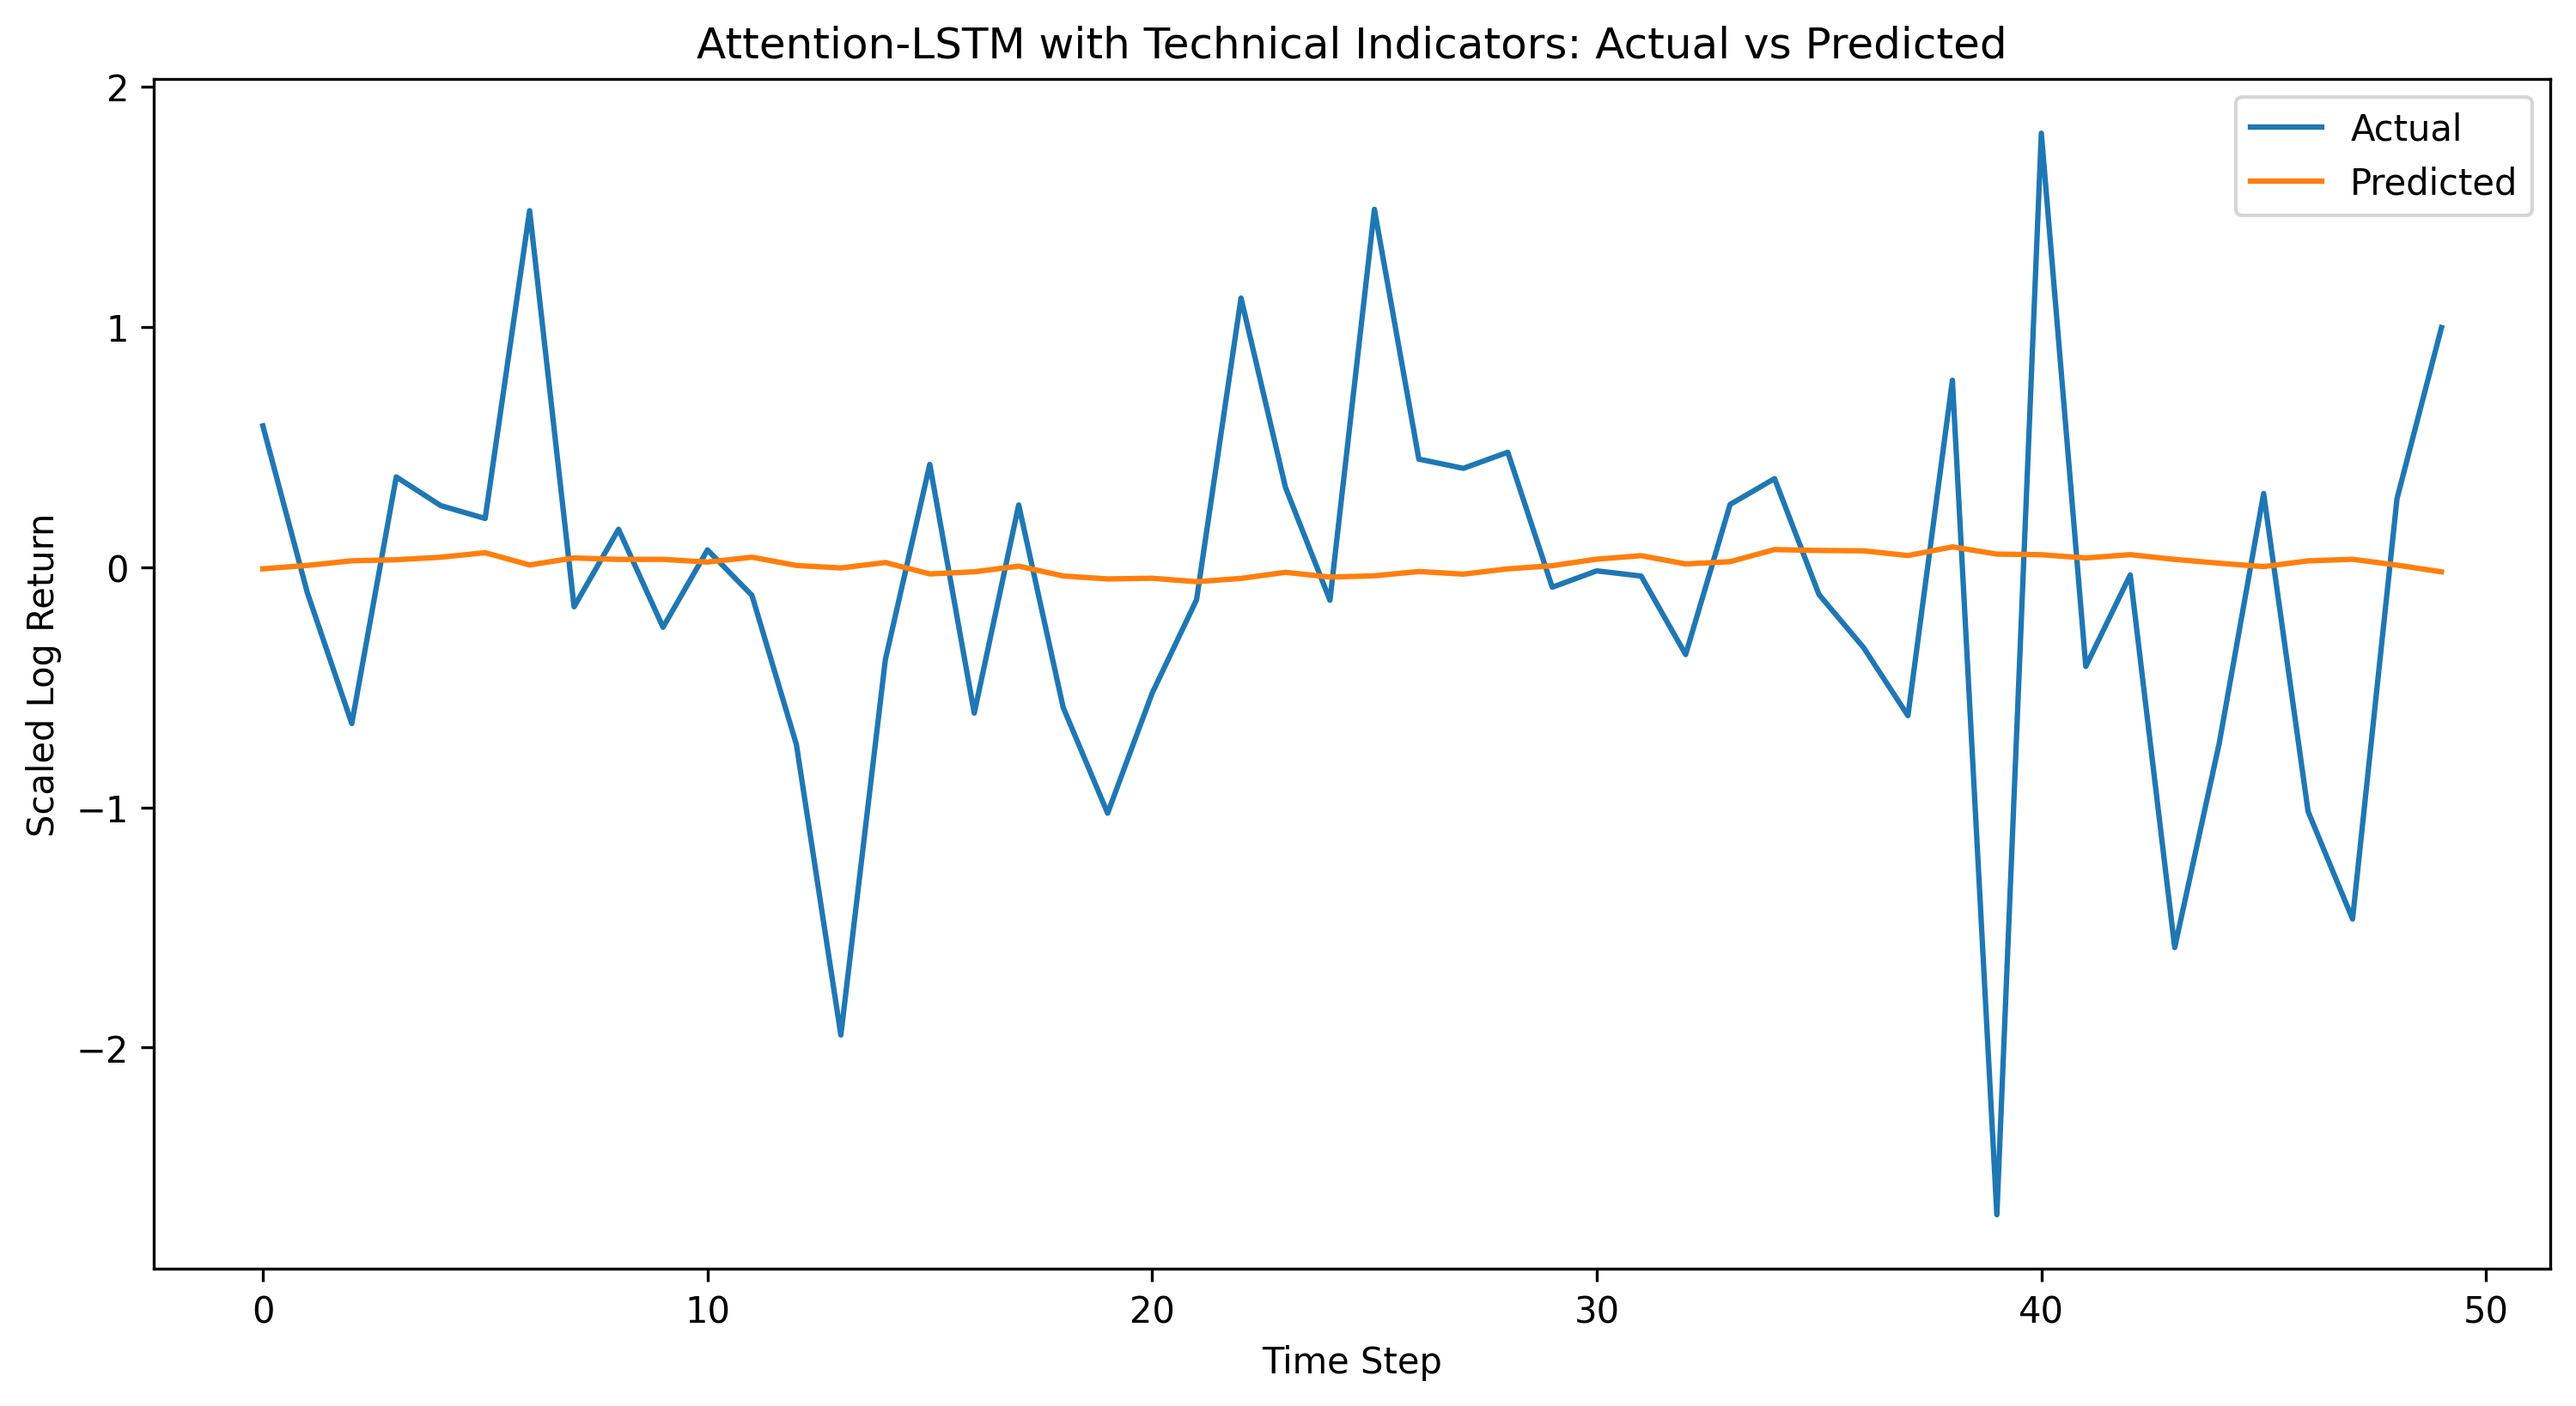
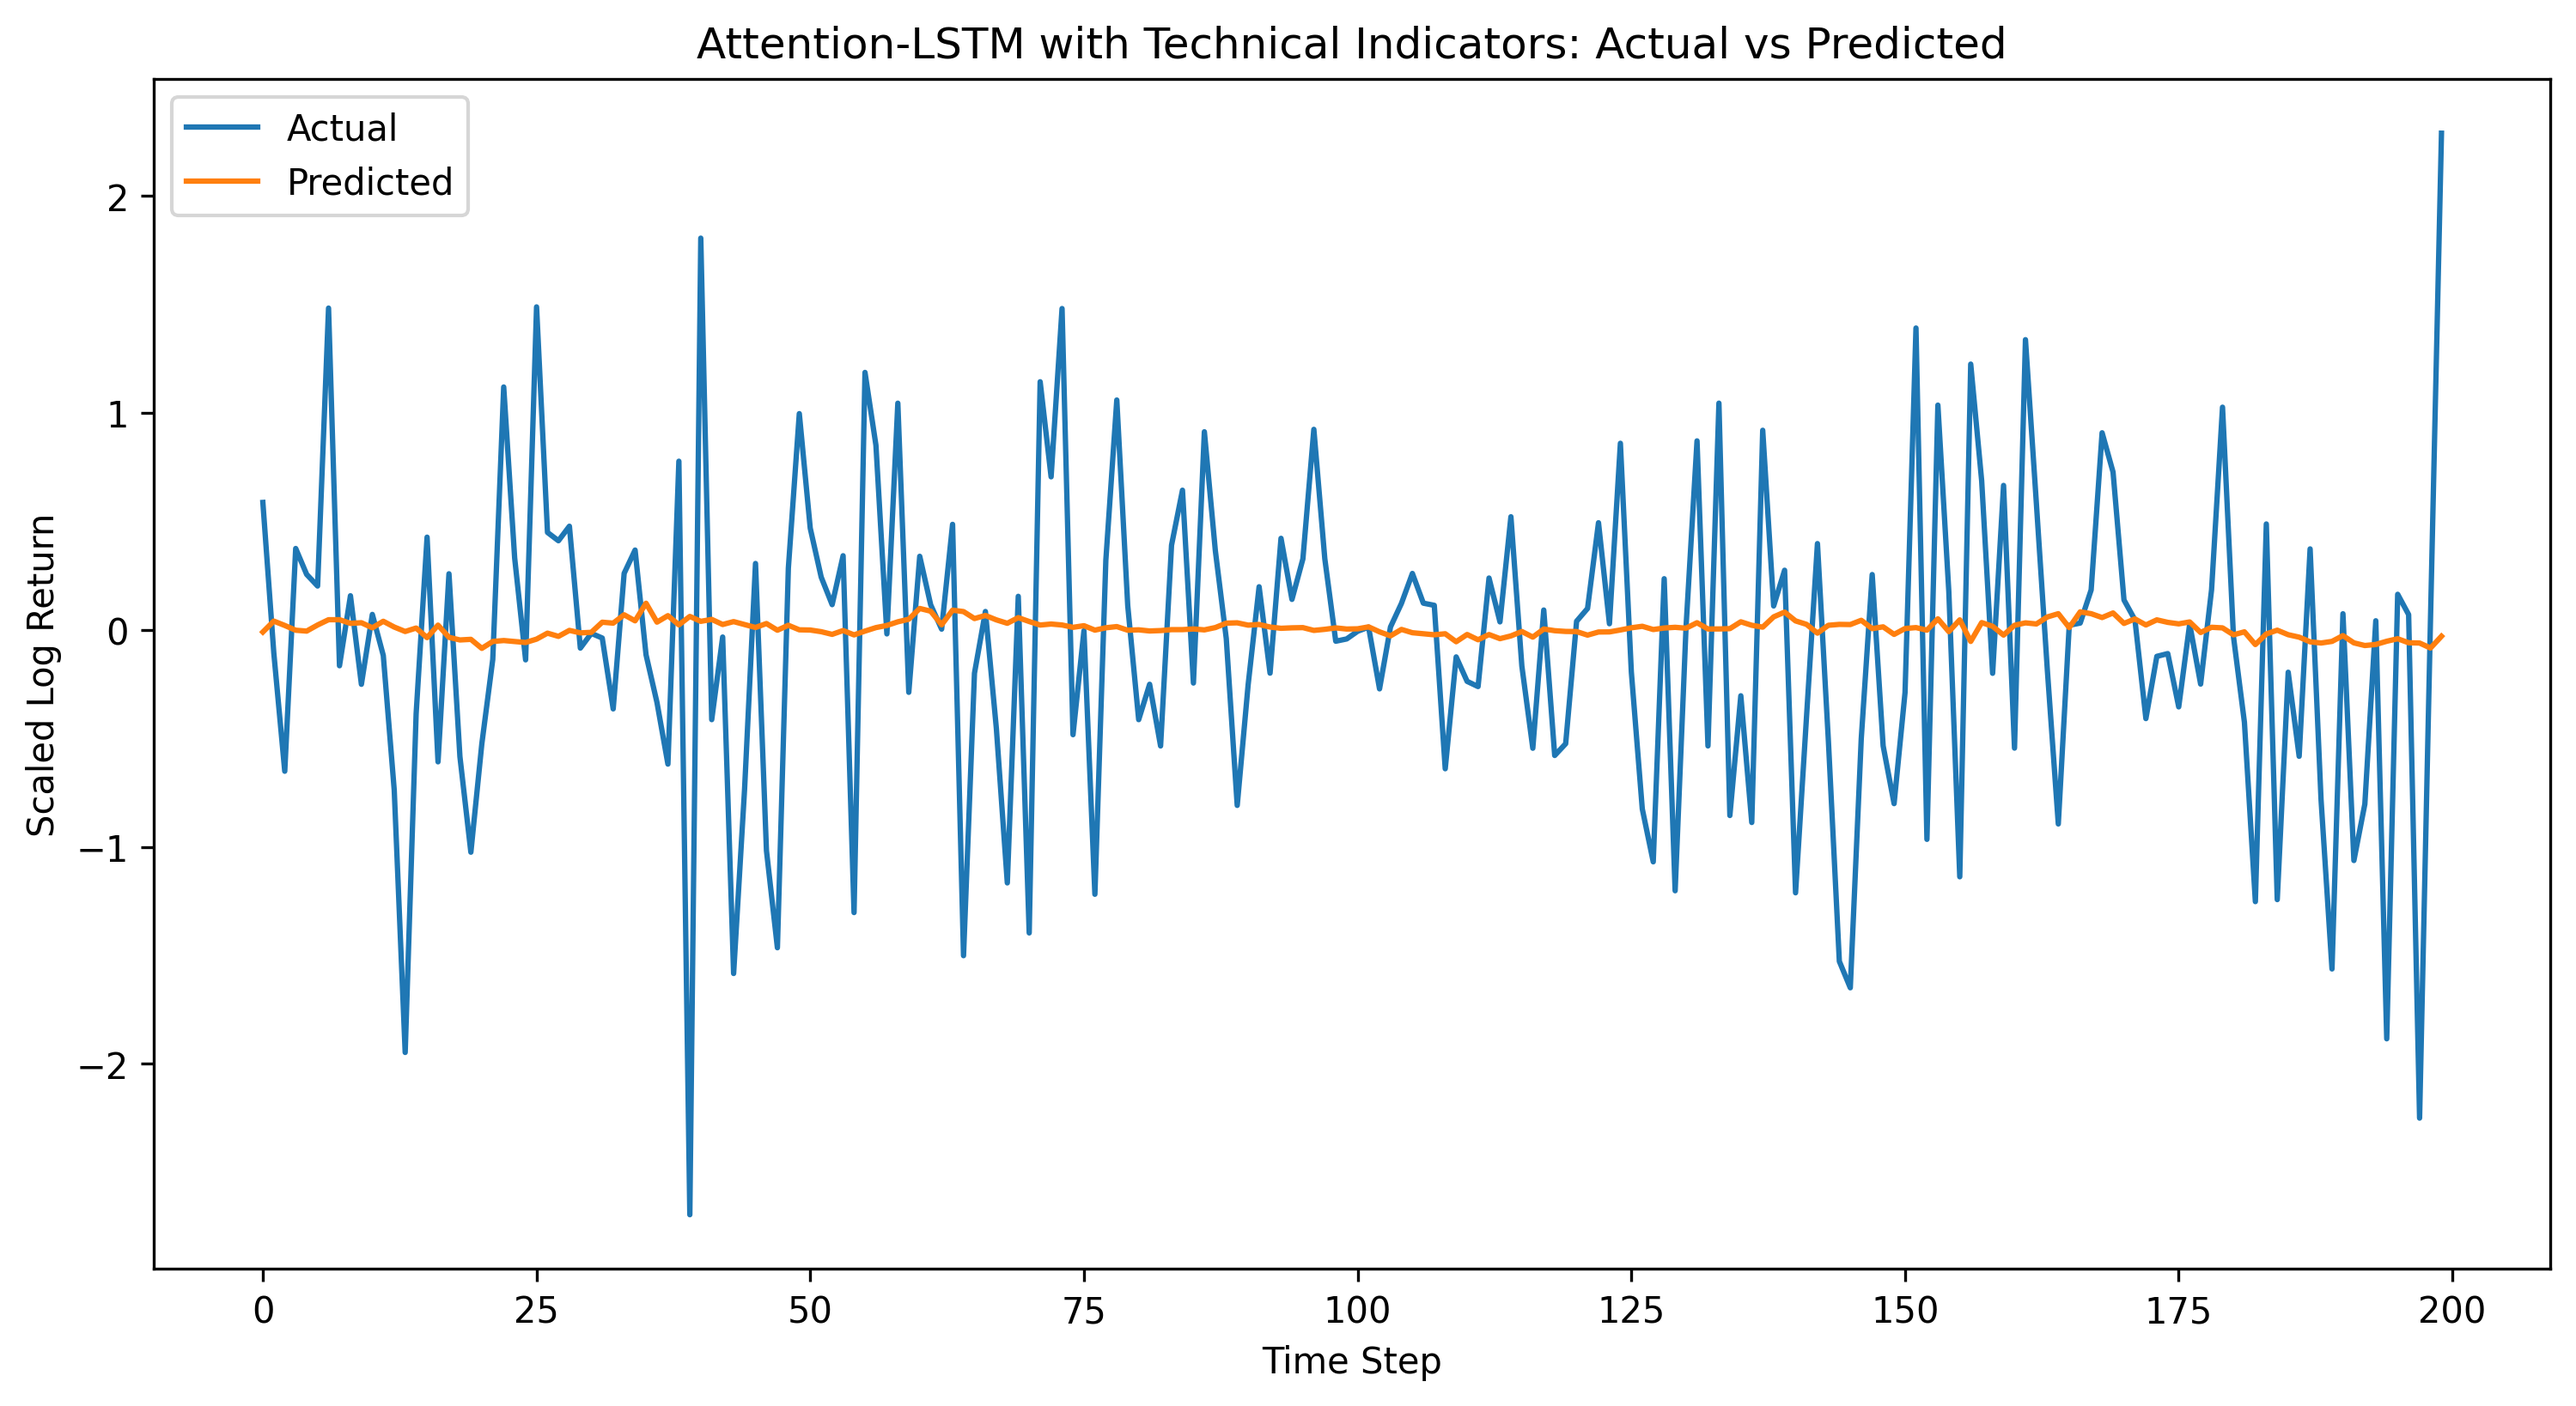
Update forecasting experiments and results

diff --git a/main_attention_lstm.py b/main_attention_lstm.py
@@ -68,6 +68,19 @@ def main():
     print("MAE:", mae)
     print("MAPE:", mape)
 
+    print("\nAttention-LSTM Evaluation Results (First 200 Test Predictions):")
+
+    y_test_200 = y_test[:200]
+    y_pred_200 = y_pred[:200]
+
+    rmse_200 = calculate_rmse(y_test_200, y_pred_200)
+    mae_200 = calculate_mae(y_test_200, y_pred_200)
+    mape_200 = calculate_mape(y_test_200, y_pred_200)
+
+    print("RMSE:", rmse_200)
+    print("MAE:", mae_200)
+    print("MAPE:", mape_200)
 
 if __name__ == "__main__":
     main()
+

diff --git a/main_baseline_lstm.py b/main_baseline_lstm.py
@@ -74,6 +74,18 @@ def main():
 
     print("Baseline predictions saved!")
 
+    print("\nBaseline LSTM Evaluation Results (First 200 Test Predictions):")
+
+    y_test_200 = y_test[:200]
+    y_pred_200 = y_pred[:200]
+
+    rmse_200 = calculate_rmse(y_test_200, y_pred_200)
+    mae_200 = calculate_mae(y_test_200, y_pred_200)
+    mape_200 = calculate_mape(y_test_200, y_pred_200)
+
+    print("RMSE:", rmse_200)
+    print("MAE:", mae_200)
+    print("MAPE:", mape_200)
 
 if __name__ == "__main__":
     main()

diff --git a/src/models.py b/src/models.py
@@ -2,12 +2,12 @@ from tensorflow.keras.models import Sequential
 from tensorflow.keras.layers import LSTM, Dense, Dropout
 
 
-def build_baseline_lstm(window_size=20):
+def build_baseline_lstm(window_size=20, n_features=1):
     model = Sequential()
 
     model.add(LSTM(
         units=50,
-        input_shape=(window_size, 1)
+        input_shape=(window_size, n_features)
     ))
 
     model.add(Dropout(0.2))

diff --git a/main_rolling_attention_volatility.py b/main_rolling_attention_volatility.py
@@ -85,7 +85,7 @@ def main():
         sequence_length=20,
         epochs=10,
         batch_size=32,
-        max_steps=50,   # first test run
+        max_steps=200,   # first test run
         n_features=2,
         target_column=0
     )

diff --git a/main_rolling_attention_ohlc.py b/main_rolling_attention_ohlc.py
@@ -131,7 +131,7 @@ def main():
         sequence_length=20,
         epochs=10,
         batch_size=32,
-        max_steps=50,
+        max_steps=200,
         n_features=5,
         target_column=4
     )

diff --git a/main_rolling_attention_indicators.py b/main_rolling_attention_indicators.py
@@ -66,7 +66,7 @@ def main():
         sequence_length=20,
         epochs=10,
         batch_size=32,
-        max_steps=50,
+        max_steps=200,
         n_features=3,
         target_column=0
     )
